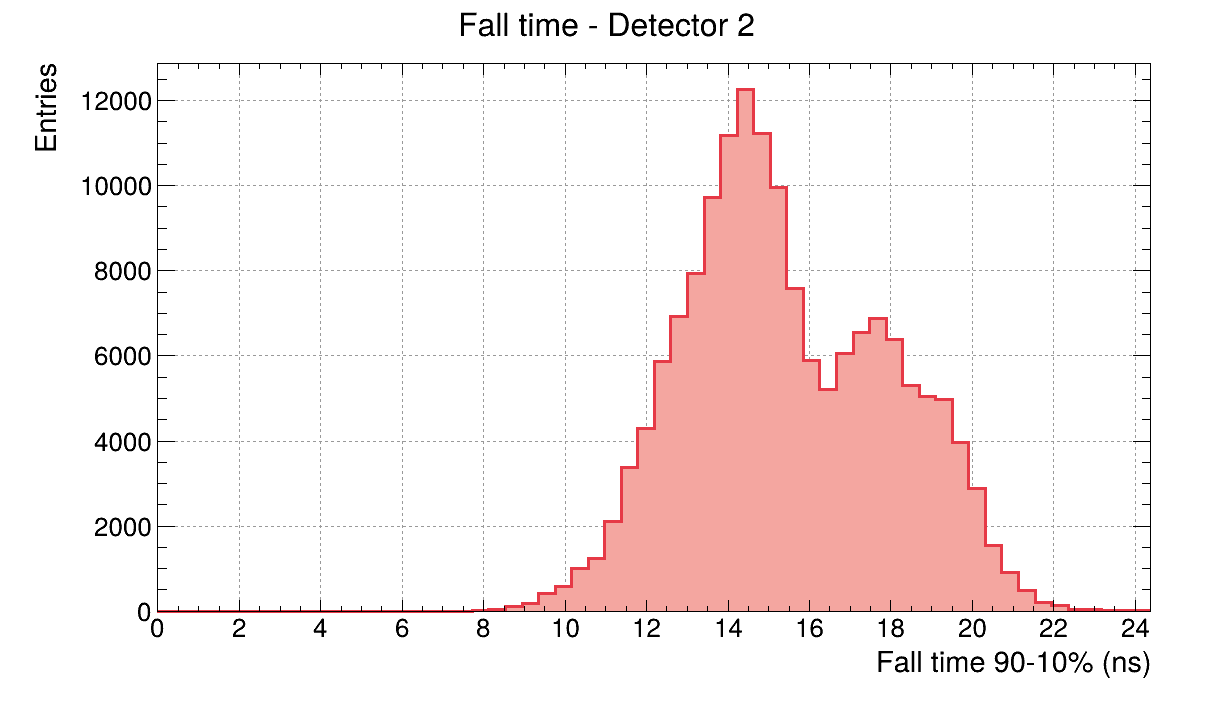
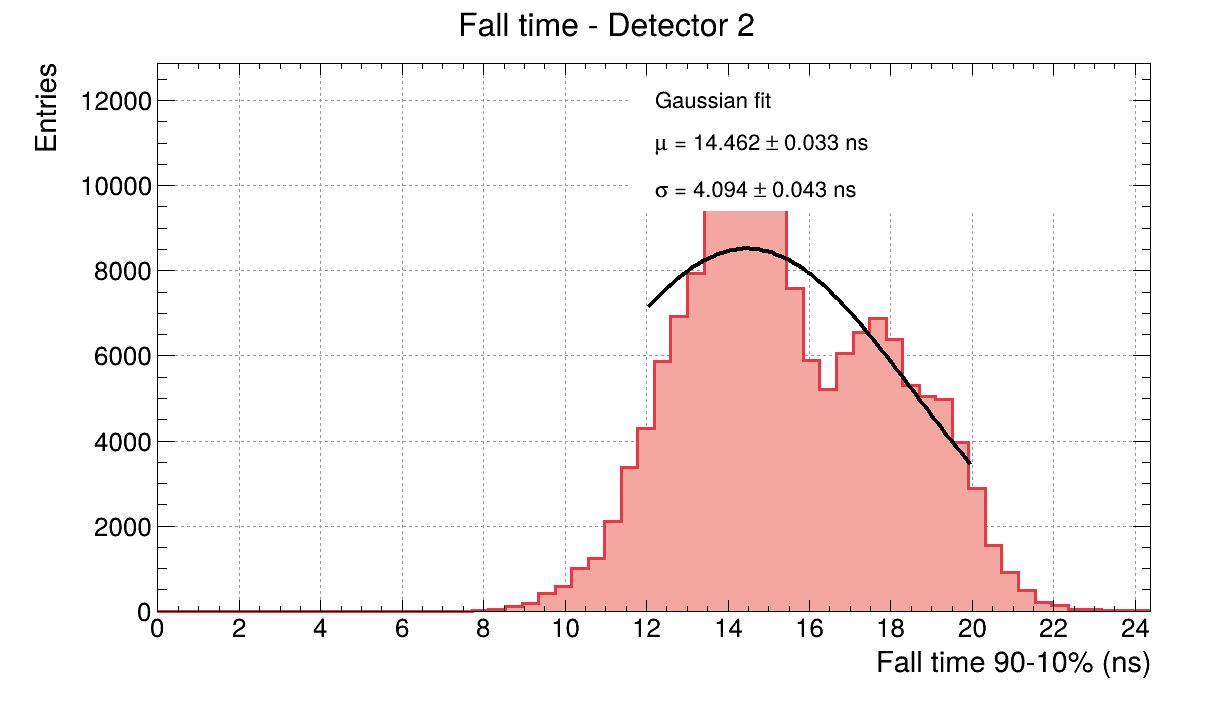
fix bug

diff --git a/code/digital_cfd.py b/code/digital_cfd.py
@@ -71,6 +71,23 @@ def load_config(path: str | Path) -> tuple[dict[str, Any], Path]:
     cfd.setdefault("min_amplitude", 50.0)
     cfd.setdefault("amplitude_bins", 60)
     cfd.setdefault("feature_bins", 60)
+    cfd.setdefault(
+        "feature_fits",
+        {
+            "rise_time": [2.0, 5.0],
+            "fall_time": [12.0, 20.0],
+            "integral": [300.0, 500.0],
+        },
+    )
+    for key, bounds in cfd["feature_fits"].items():
+        if not isinstance(bounds, list) or len(bounds) != 2:
+            raise CfdError(
+                f'"cfd.feature_fits.{key}" must contain two numbers.'
+            )
+        cfd["feature_fits"][key] = [
+            _number(bounds[0], f"cfd.feature_fits.{key}"),
+            _number(bounds[1], f"cfd.feature_fits.{key}"),
+        ]
     cfd.setdefault("density_time_bins", 600)
     cfd.setdefault("density_amplitude_bins", 400)
     cfd.setdefault("density_amplitude_max", 1000.0)
@@ -413,13 +430,15 @@ def plot_waveform_features(
     config: dict[str, Any],
     bins: int = 60,
     energy_scale: dict[int, tuple[float, float]] | None = None,
-) -> None:
+    fit_ranges: dict[str, list[float]] | None = None,
+) -> dict[str, dict[str, dict[str, float | None]]]:
     from plot import apply_style
 
+    results: dict[str, dict[str, dict[str, float | None]]] = {}
     quantities = (
-        (0, "Rise time", "Rise time 10-90% (ns)", "rise_time"),
-        (1, "Fall time", "Fall time 90-10% (ns)", "fall_time"),
-        (2, "Integral", "Pulse integral (ADC #times ns)", "integral"),
+        (0, "Rise time", "Rise time 10-90% (ns)", "rise_time", "ns"),
+        (1, "Fall time", "Fall time 90-10% (ns)", "fall_time", "ns"),
+        (2, "Integral", "Pulse integral (ADC #times ns)", "integral", "keV"),
     )
     for channel in (0, 1):
         rows = [
@@ -440,9 +459,10 @@ def plot_waveform_features(
             if channel == 0
             else ROOT.TColor.GetColor("#F4A6A0")
         )
-        for column, title, x_title, name in quantities:
+        for column, title, x_title, name, unit in quantities:
             data = np.ascontiguousarray(values[:, column], dtype=np.float64)
-            if column == 2 and energy_scale and channel in energy_scale:
+            calibrated = column == 2 and energy_scale and channel in energy_scale
+            if calibrated:
                 scale, offset = energy_scale[channel]
                 data = data * scale + offset
                 x_title = "Pulse integral (keV)"
@@ -480,12 +500,87 @@ def plot_waveform_features(
             histogram.GetXaxis().SetLabelSize(0.040)
             histogram.GetYaxis().SetLabelSize(0.040)
             histogram.Draw("hist")
+
+            fit_range = None
+            if fit_ranges and name in fit_ranges:
+                if name != "integral" or calibrated:
+                    fit_range = fit_ranges[name]
+            if fit_range:
+                low_fit = max(
+                    float(fit_range[0]), histogram.GetXaxis().GetXmin()
+                )
+                high_fit = min(
+                    float(fit_range[1]), histogram.GetXaxis().GetXmax()
+                )
+                if high_fit > low_fit:
+                    low_bin = histogram.GetXaxis().FindBin(low_fit)
+                    high_bin = histogram.GetXaxis().FindBin(high_fit)
+                    peak_bin = max(
+                        range(low_bin, high_bin + 1),
+                        key=histogram.GetBinContent,
+                    )
+                    amplitude = histogram.GetBinContent(peak_bin)
+                    function = ROOT.TF1(
+                        f"f_{name}_{channel}", "gaus", low_fit, high_fit
+                    )
+                    function.SetParameter(0, amplitude)
+                    function.SetParameter(1, histogram.GetBinCenter(peak_bin))
+                    function.SetParameter(2, (high_fit - low_fit) / 6.0)
+                    function.SetParLimits(0, 0.0, max(amplitude, 1.0) * 10.0)
+                    function.SetParLimits(
+                        2, 1e-6, high_fit - low_fit
+                    )
+                    histogram.Fit(function, "RSQ", "", low_fit, high_fit)
+                    mean = float(function.GetParameter(1))
+                    mean_error = float(function.GetParError(1))
+                    sigma = float(function.GetParameter(2))
+                    sigma_error = float(function.GetParError(2))
+                    ndf = int(function.GetNDF())
+                    chi2_ndf = (
+                        float(function.GetChisquare() / ndf) if ndf > 0 else None
+                    )
+                    if (
+                        np.isfinite(mean)
+                        and np.isfinite(sigma)
+                        and sigma > 0.0
+                        and low_fit < mean < high_fit
+                    ):
+                        function.SetLineColor(ROOT.kBlack)
+                        function.SetLineWidth(4)
+                        function.Draw("same")
+                        box = ROOT.TPaveText(0.52, 0.70, 0.93, 0.89, "NDC")
+                        box.SetBorderSize(0)
+                        box.SetFillStyle(1001)
+                        box.SetFillColorAlpha(ROOT.kWhite, 0.85)
+                        box.SetTextAlign(12)
+                        box.SetTextFont(42)
+                        box.SetTextSize(0.034)
+                        box.AddText("Gaussian fit")
+                        box.AddText(
+                            f"#mu = {mean:.3f} #pm {mean_error:.3f} {unit}"
+                        )
+                        box.AddText(
+                            f"#sigma = {sigma:.3f} #pm {sigma_error:.3f} {unit}"
+                        )
+                        box.Draw()
+                        results.setdefault(name, {})[
+                            f"det{channel + 1}"
+                        ] = {
+                            "mean": mean,
+                            "mean_error": mean_error,
+                            "sigma": sigma,
+                            "sigma_error": sigma_error,
+                            "chi2_ndf": chi2_ndf,
+                        }
+
             canvas.SetGridx()
             canvas.SetGridy()
             canvas.Modified()
             canvas.Update()
             canvas.SaveAs(str(output / f"{name}_det{channel + 1}.png"))
             canvas.Close()
+
+    return results
 
 
 def plot_waveform_density(
@@ -1145,6 +1240,7 @@ def run(config: dict[str, Any]) -> dict[str, Any]:
             for channel, (slope, intercept) in calibration.items()
         }
 
+    feature_fits: dict[str, dict[str, dict[str, float | None]]] = {}
     if config["plot"]["enabled"]:
         for old in output.glob("*.png"):
             old.unlink()
@@ -1189,7 +1285,7 @@ def run(config: dict[str, Any]) -> dict[str, Any]:
             amplitude_bins=cfd["density_amplitude_bins"],
             amplitude_max=cfd["density_amplitude_max"],
         )
-        plot_waveform_features(
+        feature_fits = plot_waveform_features(
             {
                 0: features_first,
                 1: features_second,
@@ -1198,6 +1294,7 @@ def run(config: dict[str, Any]) -> dict[str, Any]:
             config["plot"],
             cfd["feature_bins"],
             energy_scale,
+            cfd["feature_fits"],
         )
         if histogram is not None and function is not None:
             chi2_ndf = (
@@ -1232,6 +1329,7 @@ def run(config: dict[str, Any]) -> dict[str, Any]:
             "channel0": _amplitude_stats(amplitudes_first),
             "channel1": _amplitude_stats(amplitudes_second),
         },
+        "feature_fits": feature_fits,
         "scan": [
             {
                 "delay": entry["delay"],
